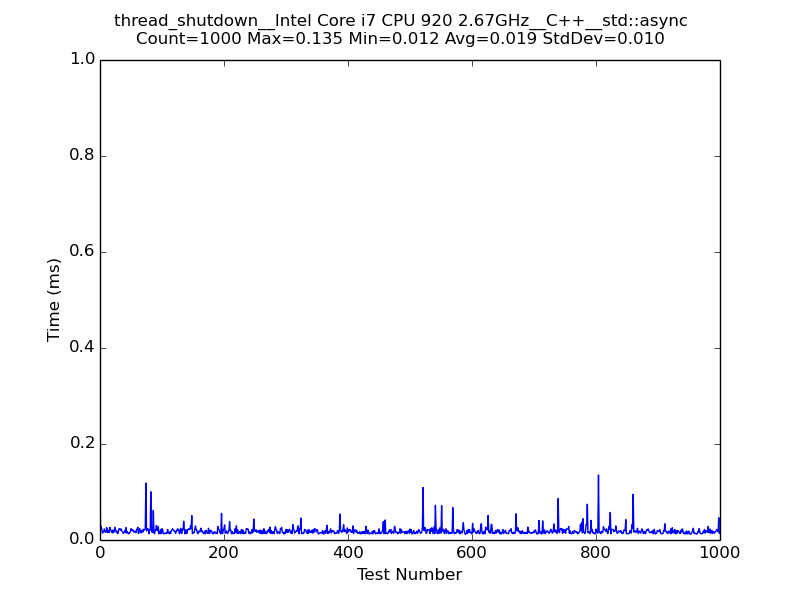
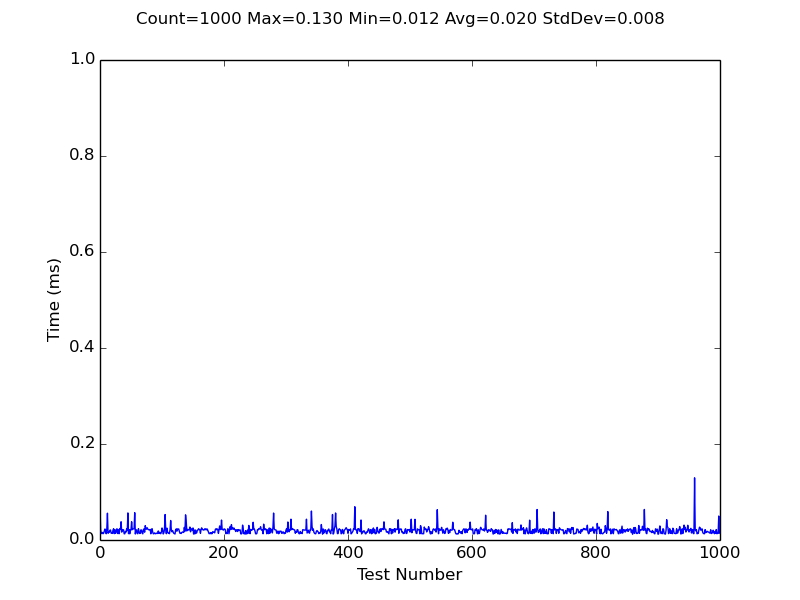
Fixed table creation for multiple CPUs

Changed region(s): [[0.125, 0.0, 0.875, 0.09], [0.125, 0.81, 0.9062, 0.9]]

diff --git a/src/outputparser.py b/src/outputparser.py
@@ -71,7 +71,7 @@ class Data:
 		}
 		
 	def graphData( self ):
-		title = '{}\nCount={} Max={:.3f} Min={:.3f} Avg={:.3f} StdDev={:.3f}'.format( self.uniqueName( ), 
+		title = 'Count={} Max={:.3f} Min={:.3f} Avg={:.3f} StdDev={:.3f}'.format(  
 			self.cnt( ), self.max( ), self.min( ), self.avg( ), self.std( ) )
 	
 		fig, ax = plt.subplots( nrows=1, ncols=1 )
@@ -114,10 +114,10 @@ def parseData( inputRawData, dataName, jsonFileName, graphPath ):
 	if not newData.name in existingData:
 		existingData[ newData.name ] = {}
 		
-	if not procName in existingData[ newData.name ]:
-		existingData[ newData.name ][ procName ] = {}
+	if not newData.testName( ) in existingData[ newData.name ]:
+		existingData[ newData.name ][ newData.testName( ) ] = {}
 	
-	existingData[ newData.name ][ procName ][ newData.testName( ) ] = newData.getJSONData( )
+	existingData[ newData.name ][ newData.testName( ) ][ procName ] = newData.getJSONData( )
 	
 	with open( jsonFileName, 'w' ) as f:
 		json.dump( existingData, f, indent=4, sort_keys=True )
@@ -137,32 +137,24 @@ def createMarkdown( jsonFileName, markdownFileName, markdownHeaderFileName ):
 			f.write( '## Test: {}\n'.format( testName ) )
 			headerNames = '|Description|'
 			headerBar = '|-----------|'
-			for proc in sorted( jsonData[ testName ] ):
-				headerNames += '{}|'.format( proc )
-				headerBar += '{}|'.format( '-' * len( proc ) )
-			f.write( '\n' )
+			
+			tableData = ''
+			for testRunName in sorted( jsonData[ testName ] ):				
+				currLine = ''
+				for proc in sorted( jsonData[ testName ][ testRunName ] ):
+					data = jsonData[ testName ][ testRunName ][ proc ]
+					if not proc in headerNames:
+						headerNames += '{}|'.format( proc )
+						headerBar += '{}|'.format( '-' * len ( proc ) )
+					if not currLine:
+						currLine += '|{} - {}|'.format( data[ 'language' ], data[ 'library' ] )
+					currLine += '![{}]({})|'.format( data[ 'uniqueName' ], data[ 'graph' ] )
+				tableData += '{}\n'.format( currLine )
+			
 			f.write( '{}\n'.format( headerNames ) )
 			f.write( '{}\n'.format( headerBar ) )
-			for proc in sorted( jsonData[ testName ] ):
-				for testRunName in sorted( jsonData[ testName ][ proc ] ):
-					data = jsonData[ testName ][ proc ][ testRunName ]
-					description = '{} - {}'.format( data[ 'language' ], data[ 'library' ] )
-					graph = '![{}]({})'.format( data[ 'uniqueName' ], data[ 'graph' ] )
-					
-					f.write( '|{}|{}|\n'.format( description, graph ) )
-		#	for testName in sorted( jsonData[ proc ] ):
-		#		f.write( '### Test: {}\n'.format( testName ) )
-		#		f.write( '|Description|Graph|\n' )
-		#		f.write( '|-----------|-----|\n' )
-		#		for testRunName in sorted( jsonData[ proc ][ testName ] ):
-		#			data = jsonData[ proc ][ testName ][ testRunName ]
-		#			
-		#			description = '{} - {}'.format( data[ 'language' ], data[ 'library' ] )
-		#			graph = '![{}]({})'.format( data[ 'uniqueName' ], data[ 'graph' ] )
-		#			
-		#			f.write( '|{}|{}|\n'.format( description, graph ) )
+			f.write( '{}'.format( tableData ) )
 
-				
 def main( ):
 	parser = argparse.ArgumentParser( description='Process thread data.' )
 	parser.add_argument( '--name', help='Data name' )

diff --git a/README.md b/README.md
@@ -29,7 +29,6 @@ For each one, the following information is listed:
 # Results
 
 ## Test: thread_shutdown
-
 |Description|Intel Core i7 CPU 920 2.67GHz|
 |-----------|-----------------------------|
 |C++ - pthread|![thread_shutdown__Intel Core i7 CPU 920 2.67GHz__C++__pthread](img/thread_shutdown__Intel_Core_i7_CPU_920_2.67GHz__CPP__pthread.png)|
@@ -38,7 +37,6 @@ For each one, the following information is listed:
 |C - pthread|![thread_shutdown__Intel Core i7 CPU 920 2.67GHz__C__pthread](img/thread_shutdown__Intel_Core_i7_CPU_920_2.67GHz__C__pthread.png)|
 
 ## Test: thread_start
-
 |Description|Intel Core i7 CPU 920 2.67GHz|
 |-----------|-----------------------------|
 |C++ - pthread|![thread_start__Intel Core i7 CPU 920 2.67GHz__C++__pthread](img/thread_start__Intel_Core_i7_CPU_920_2.67GHz__CPP__pthread.png)|
